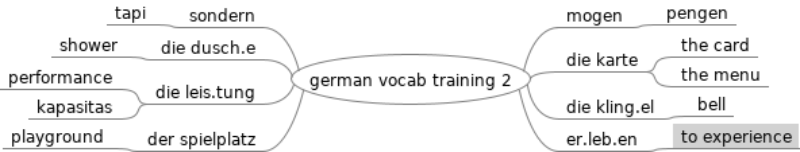
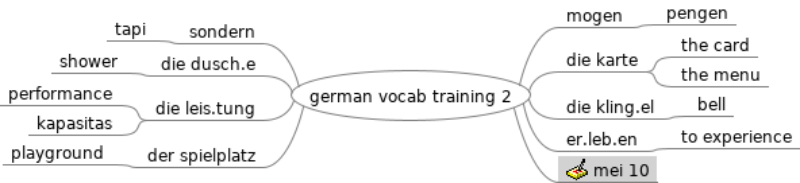
update lecture notes

Changed region(s): [[0.0, 0.0263, 1.0, 1.0]]

diff --git a/go programming.mm b/go programming.mm
@@ -44,7 +44,7 @@
 <node CREATED="1651068314684" ID="ID_1461340350" MODIFIED="1651068317614" POSITION="left" TEXT="go module">
 <node CREATED="1651068318747" ID="ID_1338610260" MODIFIED="1651068324116" TEXT="kumpulan package"/>
 </node>
-<node CREATED="1651330245094" FOLDED="true" ID="ID_1758140287" MODIFIED="1651418555349" POSITION="right" TEXT="middleware">
+<node CREATED="1651330245094" ID="ID_1758140287" MODIFIED="1652108585245" POSITION="right" TEXT="middleware">
 <node CREATED="1651330248653" ID="ID_299459683" MODIFIED="1651330255967" TEXT="serve as chain of servehttp"/>
 <node CREATED="1651330311086" ID="ID_1857984420" MODIFIED="1651330315397" TEXT="myMiddleware">
 <node CREATED="1651330315587" ID="ID_221980051" MODIFIED="1651330319597" TEXT="http.handler"/>
@@ -58,7 +58,7 @@
 <node CREATED="1651358111485" ID="ID_1567972516" MODIFIED="1651358116228" POSITION="left" TEXT="parsing form data">
 <node CREATED="1651358374098" ID="ID_793525330" MODIFIED="1651358379341" TEXT="r.ParseForm()"/>
 </node>
-<node CREATED="1651359780086" FOLDED="true" ID="ID_1538031028" MODIFIED="1651418548427" POSITION="right" TEXT="statefull http">
+<node CREATED="1651359780086" ID="ID_1538031028" MODIFIED="1652108578513" POSITION="right" TEXT="statefull http">
 <node CREATED="1651359786880" ID="ID_445227770" MODIFIED="1651359790213" TEXT="session manager"/>
 </node>
 <node CREATED="1651364578517" FOLDED="true" ID="ID_570701156" MODIFIED="1651418557089" POSITION="left" TEXT="tls">
@@ -148,5 +148,22 @@
 <node CREATED="1651934950931" ID="ID_1069379316" MODIFIED="1651934953161" POSITION="left" TEXT="go build">
 <node CREATED="1651934953383" ID="ID_262920464" MODIFIED="1651934960693" TEXT="invoking the linker kalao main"/>
 </node>
+<node CREATED="1652108267284" ID="ID_1815155261" MODIFIED="1652265273095" POSITION="right" TEXT="user auth">
+<richcontent TYPE="NOTE"><html>
+  <head>
+    
+  </head>
+  <body>
+    <p>
+      same site session
+    </p>
+  </body>
+</html>
+</richcontent>
+<node CREATED="1652108271318" ID="ID_1758184807" MODIFIED="1652108278033" TEXT="bcrptyt">
+<node CREATED="1652108278800" ID="ID_1942693781" MODIFIED="1652108284162" TEXT="buat salting the password"/>
+</node>
+</node>
+<node CREATED="1652264868420" ID="ID_608019787" MODIFIED="1652264875825" POSITION="left" TEXT="next.Servehttp"/>
 </node>
 </map>

diff --git a/german vocab training 2.mm b/german vocab training 2.mm
@@ -27,5 +27,30 @@
 <node CREATED="1647855377559" ID="ID_1961866214" MODIFIED="1647855421682" POSITION="left" TEXT="der spielplatz">
 <node CREATED="1647855461700" ID="ID_145919055" MODIFIED="1647855464563" TEXT="playground"/>
 </node>
+<node CREATED="1652140348502" ID="ID_926791691" MODIFIED="1652140608012" POSITION="right" TEXT="mei 10">
+<richcontent TYPE="NOTE"><html>
+  <head>
+    
+  </head>
+  <body>
+    <p>
+      ver.tre.ten ... mewakili
+    </p>
+    <p>
+      holen ... ambil
+    </p>
+    <p>
+      ho.len .. ambil
+    </p>
+    <p>
+      aus.wah.len ... to select .. memilih
+    </p>
+    <p>
+      
+    </p>
+  </body>
+</html>
+</richcontent>
+</node>
 </node>
 </map>
